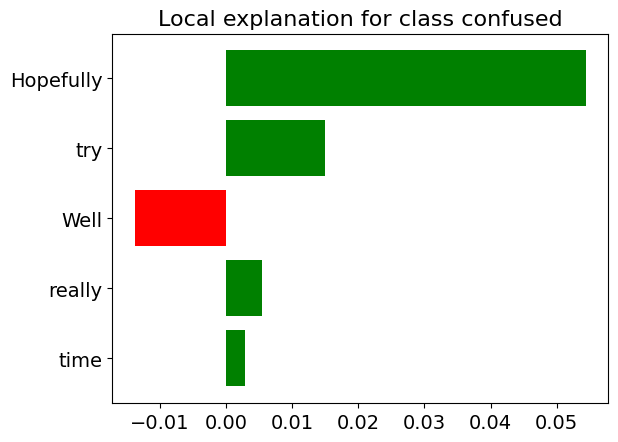
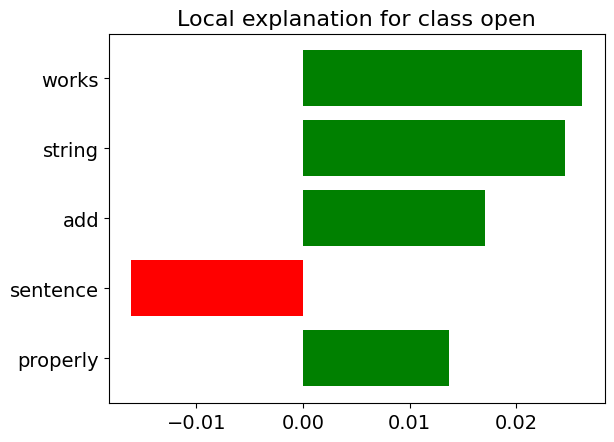
Could add more info with positive and negative words. There is a problem if the response takes longer than 5 seconds, i.e. if the text_to_analyze is too long.

diff --git a/main.py b/main.py
@@ -80,7 +80,7 @@ def lime_testing_userinput(userinput):
     explanations = exp.as_list(label=class_index)
     explanations_as_array = np.array(explanations)
     # print("Explanations: ", explanations)
-    # print("Explanations as array: ", explanations_as_array)
+    print("Explanations as array: ", explanations_as_array)
     # print('Explanation for class %s' % class_names[class_index])
     # print('\n'.join(map(str, exp.as_list(label=class_index))))
 
@@ -121,7 +121,7 @@ def webhook():
 
         else:
             name = query_result.get('parameters').get('person').get('name')
-            print(name)
+            # print(name)
             fulfillment_text = "Hi " + name + ", nice to meet you. Please, tell me something about your day."
 
     elif query_result.get('action') == 'getinformation':
@@ -129,7 +129,7 @@ def webhook():
         text_to_analyze = text_to_analyze + " " + userinput
 
         # Make sure to get enough data to analyze.
-        if len(text_to_analyze) < 64:
+        if len(text_to_analyze) < 200:
             possible_answers = ["Please, tell me more.", "Please, let me know more about that.",
                                 "I would like to get to know you better, so, can you tell me more?",
                                 "To get to know you better, I still need some information",
@@ -139,6 +139,8 @@ def webhook():
             fulfillment_image = None
 
         else:
+            # text_to_analyze = text_to_analyze[:180]
+            print(len(text_to_analyze))
             prediction, explanations, figure = lime_testing_userinput(text_to_analyze)
             words = np.array([])
             weights = np.array([])
@@ -165,6 +167,9 @@ def webhook():
                     negative_words = np.append(negative_words, words[i])
 
                 print(negative_words)
+                # print(negative_idx)
+                for all in negative_idx:
+                    print("Negative weights:", weights[all])
 
             if positive_idx.size != 0:
                 positive_idx = np.concatenate(positive_idx)
@@ -172,13 +177,26 @@ def webhook():
                     positive_words = np.append(positive_words, words[i])
 
                 print(positive_words)
+                # print(positive_idx)
+                for all in positive_idx:
+                    print("Positive weights:", weights[all])
 
-            fulfillment_text = "Thank you " + name + " for telling me about your day. " \
-                                                     "According to what you said, you feel " \
-                               + prediction + ". The word with the biggest influence for this choice is: " + words[0]
+            if negative_idx.size == 0:
+                fulfillment_text = "Thank you " + name + " for telling me about your day. " \
+                                                         "According to what you said, you feel " + prediction + \
+                                   ". The words in favour of my choice for your feeling are " + '"' \
+                                   + '", "'.join([str(word) for word in positive_words]) + '"'
+            else:
+                fulfillment_text = "Thank you " + name + " for telling me about your day. " \
+                                                         "According to what you said, you feel " + prediction + \
+                                   ". The words in favour of my choice for your feeling are " + '"' \
+                                   + '", "'.join([str(word) for word in positive_words]) \
+                                   + '". The words that do not support my choice are: ' + '"'\
+                                   + '", "'.join([str(word) for word in negative_words]) + '".'
+                print(len(fulfillment_text))
 
             # fulfillment_text = "Thank you " + name + " for telling me about your day. According to what you said, you feel " + prediction + "."
-           # fulfillment_image = ("/Users/sandrinezeiter/Library/CloudStorage/OneDrive-UniversitédeFribourg/"
+            # fulfillment_image = ("/Users/sandrinezeiter/Library/CloudStorage/OneDrive-UniversitédeFribourg/"
             #       "Thesis/Chatty/XAIBot/figure.png")
             fulfillment_image = "https://upload.wikimedia.org/wikipedia/commons/b/bd/Test.svg"
             text_to_analyze = ''  # So that I don't have to restart the whole script over and over again.
